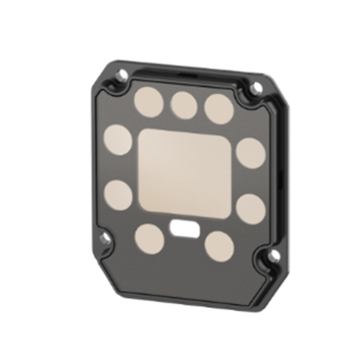
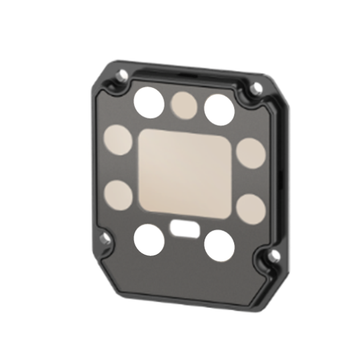
同步本地数据更新及C-Y-41H/T/P图片

diff --git a/Download/offline.html b/Download/offline.html
@@ -1343,20 +1343,20 @@
 {"Count":26,"value":["相机","ID5000M系列","ID5200PM系列V2.0","MV-ID5200PM-00C-NNN(国内中性)V2.0","313201056","20MP，全局快门，无镜头，无自带光源","","Power","0","Braket5M","0","","","M12A12","1","M12A8","1","","","","","KF","0","LB-270;BZ5N;EPE5C;M48","0;1;1;1","CAM/ID5000MC"]},
 {"Count":26,"value":["相机","ID5000M系列","ID5250PM系列V2.0","MV-ID5250PM-00C-NNN(国内标配)V2.0","313201792","25MP，全局快门，无镜头，无自带光源","","Power","0","Braket5M","0","","","M12A12","0","M12A8","0","","","","","KF","0","LB-270;BZ5H;EPE5C;M48","0;1;1;1","CAM/ID5000MC"]},
 {"Count":26,"value":["相机","ID5000M系列","ID5250PM系列V2.0","MV-ID5250PM-00C-NNN(国内中性)V2.0","313201793","25MP，全局快门，无镜头，无自带光源","","Power","0","Braket5M","0","","","M12A12","0","M12A8","0","","","","","KF","0","LB-270;BZ5N;EPE5C;M48","0;1;1;1","CAM/ID5000MC"]},
-{"Count":26,"value":["相机","ID5000XM系列","ID5050XM系列V2.0","MV-ID5050XM-08M-RBN(国内标配)V2.0","313202289","5MP，8mm镜头，8颗红色LED，半偏镜头罩，机械调焦，带OLED屏","","Power","0","Braket5X","1","","","M12A12","0","M12A8","0","L-8-32","1","C-Y-41H","1","","","C-Y-41H-E;SL-16-M;BZ5XH;EPE5XM;M48","0;0;1;1;1","CAM/ID5000XM"]},
-{"Count":26,"value":["相机","ID5000XM系列","ID5050XM系列V2.0","MV-ID5050XM-08M-RBN(国内中性)V2.0","313202545","5MP，8mm镜头，8颗红色LED，半偏镜头罩，机械调焦，带OLED屏","","Power","0","Braket5X","1","","","M12A12","0","M12A8","0","L-8-32","1","C-Y-41H","1","","","C-Y-41H-E;SL-16-M;BZ5XN;EPE5XM;M48","0;0;1;1;1","CAM/ID5000XM"]},
-{"Count":26,"value":["相机","ID5000XM系列","ID5050XM系列V2.0","MV-ID5050XM-12M-RBN(国内标配)V2.0","313202290","5MP，12mm镜头，8颗红色LED，半偏镜头罩，机械调焦，带OLED屏","","Power","0","Braket5X","1","","","M12A12","0","M12A8","0","L-8-32","1","C-Y-41H","1","","","C-Y-41H-E;SL-16-M;BZ5XH;EPE5XM;M48","0;0;1;1;1","CAM/ID5000XM"]},
-{"Count":26,"value":["相机","ID5000XM系列","ID5050XM系列V2.0","MV-ID5050XM-12M-RBN(国内中性)V2.0","313202547","5MP，12mm镜头，8颗红色LED，半偏镜头罩，机械调焦，带OLED屏","","Power","0","Braket5X","1","","","M12A12","0","M12A8","0","L-8-32","1","C-Y-41H","1","","","C-Y-41H-E;SL-16-M;BZ5XN;EPE5XM;M48","0;0;1;1;1","CAM/ID5000XM"]},
-{"Count":26,"value":["相机","ID5000XM系列","ID5050XM系列V2.0","MV-ID5050XM-16M-RBN(国内标配)V2.0","313202291","5MP，16mm镜头，8颗红色LED，半偏镜头罩，机械调焦，带OLED屏","","Power","0","Braket5X","1","","","M12A12","0","M12A8","0","L-8-32","1","C-Y-41H","1","","","C-Y-41H-E;SL-16-M;BZ5XH;EPE5XM;M48","0;0;1;1;1","CAM/ID5000XM"]},
-{"Count":26,"value":["相机","ID5000XM系列","ID5050XM系列V2.0","MV-ID5050XM-16M-RBN(国内中性)V2.0","313202549","5MP，16mm镜头，8颗红色LED，半偏镜头罩，机械调焦，带OLED屏","","Power","0","Braket5X","1","","","M12A12","0","M12A8","0","L-8-32","1","C-Y-41H","1","","","C-Y-41H-E;SL-16-M;BZ5XN;EPE5XM;M48","0;0;1;1;1","CAM/ID5000XM"]},
-{"Count":26,"value":["相机","ID5000XM系列","ID5050XM系列V2.0","MV-ID5050XM-25M-RBN(国内标配)V2.0","313202292","5MP，25mm镜头，8颗红色LED，半偏镜头罩，机械调焦，带OLED屏","","Power","0","Braket5X","1","","","M12A12","0","M12A8","0","L-8-32","1","C-Y-41H","1","","","C-Y-41H-E;SL-16-M;BZ5XH;EPE5XM;M48","0;0;1;1;1","CAM/ID5000XM"]},
-{"Count":26,"value":["相机","ID5000XM系列","ID5050XM系列V2.0","MV-ID5050XM-25M-RBN(国内中性)V2.0","313202551","5MP，25mm镜头，8颗红色LED，半偏镜头罩，机械调焦，带OLED屏","","Power","0","Braket5X","1","","","M12A12","0","M12A8","0","L-8-32","1","C-Y-41H","1","","","C-Y-41H-E;SL-16-M;BZ5XN;EPE5XM;M48","0;0;1;1;1","CAM/ID5000XM"]},
-{"Count":26,"value":["相机","ID5000XM系列","ID5050XM系列V2.0","MV-ID5050XM-08L-RBN(国内标配)V2.0","313202293","5MP，8mm镜头，8颗红色LED，半偏镜头罩，液态调焦，带OLED屏","","Power","0","Braket5X","1","","","M12A12","0","M12A8","0","L-8-32","1","C-Y-41H","1","","","C-Y-41H-E;SL-16-M;BZ5XH;EPE5XM;M48","0;0;1;1;1","CAM/ID5000XM"]},
-{"Count":26,"value":["相机","ID5000XM系列","ID5050XM系列V2.0","MV-ID5050XM-08L-RBN(国内中性)V2.0","313202553","5MP，8mm镜头，8颗红色LED，半偏镜头罩，液态调焦，带OLED屏","","Power","0","Braket5X","1","","","M12A12","0","M12A8","0","L-8-32","1","C-Y-41H","1","","","C-Y-41H-E;SL-16-M;BZ5XN;EPE5XM;M48","0;0;1;1;1","CAM/ID5000XM"]},
-{"Count":26,"value":["相机","ID5000XM系列","ID5050XM系列V2.0","MV-ID5050XM-12L-RBN(国内标配)V2.0","313202294","5MP，12mm镜头，8颗红色LED，半偏镜头罩，液态调焦，带OLED屏","","Power","0","Braket5X","1","","","M12A12","0","M12A8","0","L-8-32","1","C-Y-41H","1","","","C-Y-41H-E;SL-16-M;BZ5XH;EPE5XM;M48","0;0;1;1;1","CAM/ID5000XM"]},
-{"Count":26,"value":["相机","ID5000XM系列","ID5050XM系列V2.0","MV-ID5050XM-12L-RBN(国内中性)V2.0","313202557","5MP，12mm镜头，8颗红色LED，半偏镜头罩，液态调焦，带OLED屏","","Power","0","Braket5X","1","","","M12A12","0","M12A8","0","L-8-32","1","C-Y-41H","1","","","C-Y-41H-E;SL-16-M;BZ5XN;EPE5XM;M48","0;0;1;1;1","CAM/ID5000XM"]},
-{"Count":26,"value":["相机","ID5000XM系列","ID5050XM系列V2.0","MV-ID5050XM-16L-RBN(国内标配)V2.0","313202295","5MP，16mm镜头，8颗红色LED，半偏镜头罩，液态调焦，带OLED屏","","Power","0","Braket5X","1","","","M12A12","0","M12A8","0","L-8-32","1","C-Y-41H","1","","","C-Y-41H-E;SL-16-M;BZ5XH;EPE5XM;M48","0;0;1;1;1","CAM/ID5000XM"]},
-{"Count":26,"value":["相机","ID5000XM系列","ID5050XM系列V2.0","MV-ID5050XM-16L-RBN(国内中性)V2.0","313202555","5MP，16mm镜头，8颗红色LED，半偏镜头罩，液态调焦，带OLED屏","","Power","0","Braket5X","1","","","M12A12","0","M12A8","0","L-8-32","1","C-Y-41H","1","","","C-Y-41H-E;SL-16-M;BZ5XN;EPE5XM;M48","0;0;1;1;1","CAM/ID5000XM"]},
+{"Count":26,"value":["相机","ID5000XM系列","ID5050XM系列V2.0","MV-ID5050XM-08M-RBN(国内标配)V2.0","313202289","5MP，8mm镜头，8颗红色LED，半偏镜头罩，机械调焦，带OLED屏","","Power","0","Braket5X","1","","","M12A12","0","M12A8","0","L-8-32","1","C-Y-41","1","","","C-Y-41-E;SL-16-M;BZ5XH;EPE5XM;M48","0;0;1;1;1","CAM/ID5000XM"]},
+{"Count":26,"value":["相机","ID5000XM系列","ID5050XM系列V2.0","MV-ID5050XM-08M-RBN(国内中性)V2.0","313202545","5MP，8mm镜头，8颗红色LED，半偏镜头罩，机械调焦，带OLED屏","","Power","0","Braket5X","1","","","M12A12","0","M12A8","0","L-8-32","1","C-Y-41","1","","","C-Y-41-E;SL-16-M;BZ5XN;EPE5XM;M48","0;0;1;1;1","CAM/ID5000XM"]},
+{"Count":26,"value":["相机","ID5000XM系列","ID5050XM系列V2.0","MV-ID5050XM-12M-RBN(国内标配)V2.0","313202290","5MP，12mm镜头，8颗红色LED，半偏镜头罩，机械调焦，带OLED屏","","Power","0","Braket5X","1","","","M12A12","0","M12A8","0","L-8-32","1","C-Y-41","1","","","C-Y-41-E;SL-16-M;BZ5XH;EPE5XM;M48","0;0;1;1;1","CAM/ID5000XM"]},
+{"Count":26,"value":["相机","ID5000XM系列","ID5050XM系列V2.0","MV-ID5050XM-12M-RBN(国内中性)V2.0","313202547","5MP，12mm镜头，8颗红色LED，半偏镜头罩，机械调焦，带OLED屏","","Power","0","Braket5X","1","","","M12A12","0","M12A8","0","L-8-32","1","C-Y-41","1","","","C-Y-41-E;SL-16-M;BZ5XN;EPE5XM;M48","0;0;1;1;1","CAM/ID5000XM"]},
+{"Count":26,"value":["相机","ID5000XM系列","ID5050XM系列V2.0","MV-ID5050XM-16M-RBN(国内标配)V2.0","313202291","5MP，16mm镜头，8颗红色LED，半偏镜头罩，机械调焦，带OLED屏","","Power","0","Braket5X","1","","","M12A12","0","M12A8","0","L-8-32","1","C-Y-41","1","","","C-Y-41-E;SL-16-M;BZ5XH;EPE5XM;M48","0;0;1;1;1","CAM/ID5000XM"]},
+{"Count":26,"value":["相机","ID5000XM系列","ID5050XM系列V2.0","MV-ID5050XM-16M-RBN(国内中性)V2.0","313202549","5MP，16mm镜头，8颗红色LED，半偏镜头罩，机械调焦，带OLED屏","","Power","0","Braket5X","1","","","M12A12","0","M12A8","0","L-8-32","1","C-Y-41","1","","","C-Y-41-E;SL-16-M;BZ5XN;EPE5XM;M48","0;0;1;1;1","CAM/ID5000XM"]},
+{"Count":26,"value":["相机","ID5000XM系列","ID5050XM系列V2.0","MV-ID5050XM-25M-RBN(国内标配)V2.0","313202292","5MP，25mm镜头，8颗红色LED，半偏镜头罩，机械调焦，带OLED屏","","Power","0","Braket5X","1","","","M12A12","0","M12A8","0","L-8-32","1","C-Y-41","1","","","C-Y-41-E;SL-16-M;BZ5XH;EPE5XM;M48","0;0;1;1;1","CAM/ID5000XM"]},
+{"Count":26,"value":["相机","ID5000XM系列","ID5050XM系列V2.0","MV-ID5050XM-25M-RBN(国内中性)V2.0","313202551","5MP，25mm镜头，8颗红色LED，半偏镜头罩，机械调焦，带OLED屏","","Power","0","Braket5X","1","","","M12A12","0","M12A8","0","L-8-32","1","C-Y-41","1","","","C-Y-41-E;SL-16-M;BZ5XN;EPE5XM;M48","0;0;1;1;1","CAM/ID5000XM"]},
+{"Count":26,"value":["相机","ID5000XM系列","ID5050XM系列V2.0","MV-ID5050XM-08L-RBN(国内标配)V2.0","313202293","5MP，8mm镜头，8颗红色LED，半偏镜头罩，液态调焦，带OLED屏","","Power","0","Braket5X","1","","","M12A12","0","M12A8","0","L-8-32","1","C-Y-41","1","","","C-Y-41-E;SL-16-M;BZ5XH;EPE5XM;M48","0;0;1;1;1","CAM/ID5000XM"]},
+{"Count":26,"value":["相机","ID5000XM系列","ID5050XM系列V2.0","MV-ID5050XM-08L-RBN(国内中性)V2.0","313202553","5MP，8mm镜头，8颗红色LED，半偏镜头罩，液态调焦，带OLED屏","","Power","0","Braket5X","1","","","M12A12","0","M12A8","0","L-8-32","1","C-Y-41","1","","","C-Y-41-E;SL-16-M;BZ5XN;EPE5XM;M48","0;0;1;1;1","CAM/ID5000XM"]},
+{"Count":26,"value":["相机","ID5000XM系列","ID5050XM系列V2.0","MV-ID5050XM-12L-RBN(国内标配)V2.0","313202294","5MP，12mm镜头，8颗红色LED，半偏镜头罩，液态调焦，带OLED屏","","Power","0","Braket5X","1","","","M12A12","0","M12A8","0","L-8-32","1","C-Y-41","1","","","C-Y-41-E;SL-16-M;BZ5XH;EPE5XM;M48","0;0;1;1;1","CAM/ID5000XM"]},
+{"Count":26,"value":["相机","ID5000XM系列","ID5050XM系列V2.0","MV-ID5050XM-12L-RBN(国内中性)V2.0","313202557","5MP，12mm镜头，8颗红色LED，半偏镜头罩，液态调焦，带OLED屏","","Power","0","Braket5X","1","","","M12A12","0","M12A8","0","L-8-32","1","C-Y-41","1","","","C-Y-41-E;SL-16-M;BZ5XN;EPE5XM;M48","0;0;1;1;1","CAM/ID5000XM"]},
+{"Count":26,"value":["相机","ID5000XM系列","ID5050XM系列V2.0","MV-ID5050XM-16L-RBN(国内标配)V2.0","313202295","5MP，16mm镜头，8颗红色LED，半偏镜头罩，液态调焦，带OLED屏","","Power","0","Braket5X","1","","","M12A12","0","M12A8","0","L-8-32","1","C-Y-41","1","","","C-Y-41-E;SL-16-M;BZ5XH;EPE5XM;M48","0;0;1;1;1","CAM/ID5000XM"]},
+{"Count":26,"value":["相机","ID5000XM系列","ID5050XM系列V2.0","MV-ID5050XM-16L-RBN(国内中性)V2.0","313202555","5MP，16mm镜头，8颗红色LED，半偏镜头罩，液态调焦，带OLED屏","","Power","0","Braket5X","1","","","M12A12","0","M12A8","0","L-8-32","1","C-Y-41","1","","","C-Y-41-E;SL-16-M;BZ5XN;EPE5XM;M48","0;0;1;1;1","CAM/ID5000XM"]},
 {"Count":26,"value":["相机","ID5000XM系列","ID5050XM系列V2.0","MV-ID5050XM-00C-NNN(国内标配)","313202673","5MP，全局快门，无镜头，无自带光源","","Power","0","Braket5X","1","","","M12A12","0","M12A8","0","","","","","MF","0","SL-16-C;LY-02;BZ5XH;EPE5XC;M48","0;0;1;1;1","CAM/ID5000XC"]},
 {"Count":26,"value":["相机","ID5000XM系列","ID5050XM系列V2.0","MV-ID5050XM-00C-NNN(国内中性)","313202674","5MP，全局快门，无镜头，无自带光源","","Power","0","Braket5X","1","","","M12A12","0","M12A8","0","","","","","MF","0","SL-16-C;LY-02;BZ5XN;EPE5XC;M48","0;0;1;1;1","CAM/ID5000XC"]},
 {"Count":26,"value":["相机","ID5000XM系列","ID5050XM系列V2.0","MV-ID5050XM-08M-XBN(国内标配)","313202951","多色型号，5MP，8mm镜头，8颗四色光源(红/绿/蓝/白)，全透镜头罩，机械调焦，带OLED屏","","Power","0","Braket5X","1","","","M12A12","0","M12A8","0","","","","","","","BZ5XH;EPE5XD;M48","1;1;1","CAM/ID5050XM-XBN"]},
@@ -1367,20 +1367,20 @@
 {"Count":26,"value":["相机","ID5000XM系列","ID5050XM系列V2.0","MV-ID5050XM-25M-BVS(国内中性)","313203304","条码验证器，5MP，25mm镜头，搭配专用光源(红色)，四象限分控照明，照明区分为30°、45°、同轴光","","Power","0","Braket5X","1","","","M12A12","0","M12A8","0","","","","","","","BZ5XT;EPE5XT;M48","1;1;1","CAM/ID5050XM-BVS"]},
 {"Count":26,"value":["相机","ID5000XM系列","ID5120XM系列","MV-ID5120XM-00C-NNN(国内标配)","313202675","12MP，全局快门，无镜头，无自带光源","","Power","0","Braket5X","1","","","M12A12","0","M12A8","0","","","","","KF","0","SL-16-C;LY-02;BZ5XH;EPE5XC;M48","0;0;1;1;1","CAM/ID5000XC"]},
 {"Count":26,"value":["相机","ID5000XM系列","ID5120XM系列","MV-ID5120XM-00C-NNN(国内中性)","313202676","12MP，全局快门，无镜头，无自带光源","","Power","0","Braket5X","1","","","M12A12","0","M12A8","0","","","","","KF","0","SL-16-C;LY-02;BZ5XN;EPE5XC;M48","0;0;1;1;1","CAM/ID5000XC"]},
-{"Count":26,"value":["相机","ID5000XM系列","ID5120RM系列","MV-ID5120RM-08M-RBN(国内标配)","313202900","12MP，8mm镜头，8颗红色LED，半偏镜头罩，机械调焦，带OLED屏","","Power","0","Braket5X","1","","","M12A12","0","M12A8","0","L-8-32","1","C-Y-41H","1","","","C-Y-41H-E;SL-16-M;BZ5XH;EPE5XM;M48","0;0;1;1;1","CAM/ID5000XM"]},
-{"Count":26,"value":["相机","ID5000XM系列","ID5120RM系列","MV-ID5120RM-08M-RBN(国内中性)","313202990","12MP，8mm镜头，8颗红色LED，半偏镜头罩，机械调焦，带OLED屏","","Power","0","Braket5X","1","","","M12A12","0","M12A8","0","L-8-32","1","C-Y-41H","1","","","C-Y-41H-E;SL-16-M;BZ5XN;EPE5XM;M48","0;0;1;1;1","CAM/ID5000XM"]},
-{"Count":26,"value":["相机","ID5000XM系列","ID5120RM系列","MV-ID5120RM-12M-RBN(国内标配)","313202901","12MP，12mm镜头，8颗红色LED，半偏镜头罩，机械调焦，带OLED屏","","Power","0","Braket5X","1","","","M12A12","0","M12A8","0","L-8-32","1","C-Y-41H","1","","","C-Y-41H-E;SL-16-M;BZ5XH;EPE5XM;M48","0;0;1;1;1","CAM/ID5000XM"]},
-{"Count":26,"value":["相机","ID5000XM系列","ID5120RM系列","MV-ID5120RM-12M-RBN(国内中性)","313202996","12MP，12mm镜头，8颗红色LED，半偏镜头罩，机械调焦，带OLED屏","","Power","0","Braket5X","1","","","M12A12","0","M12A8","0","L-8-32","1","C-Y-41H","1","","","C-Y-41H-E;SL-16-M;BZ5XN;EPE5XM;M48","0;0;1;1;1","CAM/ID5000XM"]},
-{"Count":26,"value":["相机","ID5000XM系列","ID5120RM系列","MV-ID5120RM-16M-RBN(国内标配)","313202902","12MP，16mm镜头，8颗红色LED，半偏镜头罩，机械调焦，带OLED屏","","Power","0","Braket5X","1","","","M12A12","0","M12A8","0","L-8-32","1","C-Y-41H","1","","","C-Y-41H-E;SL-16-M;BZ5XH;EPE5XM;M48","0;0;1;1;1","CAM/ID5000XM"]},
-{"Count":26,"value":["相机","ID5000XM系列","ID5120RM系列","MV-ID5120RM-16M-RBN(国内中性)","313203002","12MP，16mm镜头，8颗红色LED，半偏镜头罩，机械调焦，带OLED屏","","Power","0","Braket5X","1","","","M12A12","0","M12A8","0","L-8-32","1","C-Y-41H","1","","","C-Y-41H-E;SL-16-M;BZ5XN;EPE5XM;M48","0;0;1;1;1","CAM/ID5000XM"]},
-{"Count":26,"value":["相机","ID5000XM系列","ID5120RM系列","MV-ID5120RM-25M-RBN(国内标配)","313202903","12MP，25mm镜头，8颗红色LED，半偏镜头罩，机械调焦，带OLED屏","","Power","0","Braket5X","1","","","M12A12","0","M12A8","0","L-8-32","1","C-Y-41H","1","","","C-Y-41H-E;SL-16-M;BZ5XH;EPE5XM;M48","0;0;1;1;1","CAM/ID5000XM"]},
-{"Count":26,"value":["相机","ID5000XM系列","ID5120RM系列","MV-ID5120RM-25M-RBN(国内中性)","313203005","12MP，25mm镜头，8颗红色LED，半偏镜头罩，机械调焦，带OLED屏","","Power","0","Braket5X","1","","","M12A12","0","M12A8","0","L-8-32","1","C-Y-41H","1","","","C-Y-41H-E;SL-16-M;BZ5XN;EPE5XM;M48","0;0;1;1;1","CAM/ID5000XM"]},
-{"Count":26,"value":["相机","ID5000XM系列","ID5120RM系列","MV-ID5120RM-08L-RBN(国内标配)","313202904","12MP，8mm镜头，8颗红色LED，半偏镜头罩，液态调焦，带OLED屏","","Power","0","Braket5X","1","","","M12A12","0","M12A8","0","L-8-32","1","C-Y-41H","1","","","C-Y-41H-E;SL-16-M;BZ5XH;EPE5XM;M48","0;0;1;1;1","CAM/ID5000XM"]},
-{"Count":26,"value":["相机","ID5000XM系列","ID5120RM系列","MV-ID5120RM-08L-RBN(国内中性)","313202954","12MP，8mm镜头，8颗红色LED，半偏镜头罩，液态调焦，带OLED屏","","Power","0","Braket5X","1","","","M12A12","0","M12A8","0","L-8-32","1","C-Y-41H","1","","","C-Y-41H-E;SL-16-M;BZ5XN;EPE5XM;M48","0;0;1;1;1","CAM/ID5000XM"]},
-{"Count":26,"value":["相机","ID5000XM系列","ID5120RM系列","MV-ID5120RM-12L-RBN(国内标配)","313202905","12MP，12mm镜头，8颗红色LED，半偏镜头罩，液态调焦，带OLED屏","","Power","0","Braket5X","1","","","M12A12","0","M12A8","0","L-8-32","1","C-Y-41H","1","","","C-Y-41H-E;SL-16-M;BZ5XH;EPE5XM;M48","0;0;1;1;1","CAM/ID5000XM"]},
-{"Count":26,"value":["相机","ID5000XM系列","ID5120RM系列","MV-ID5120RM-12L-RBN(国内中性)","313202993","12MP，12mm镜头，8颗红色LED，半偏镜头罩，液态调焦，带OLED屏","","Power","0","Braket5X","1","","","M12A12","0","M12A8","0","L-8-32","1","C-Y-41H","1","","","C-Y-41H-E;SL-16-M;BZ5XN;EPE5XM;M48","0;0;1;1;1","CAM/ID5000XM"]},
-{"Count":26,"value":["相机","ID5000XM系列","ID5120RM系列","MV-ID5120RM-16L-RBN(国内标配)","313202906","12MP，16mm镜头，8颗红色LED，半偏镜头罩，液态调焦，带OLED屏","","Power","0","Braket5X","1","","","M12A12","0","M12A8","0","L-8-32","1","C-Y-41H","1","","","C-Y-41H-E;SL-16-M;BZ5XH;EPE5XM;M48","0;0;1;1;1","CAM/ID5000XM"]},
-{"Count":26,"value":["相机","ID5000XM系列","ID5120RM系列","MV-ID5120RM-16L-RBN(国内中性)","313202999","12MP，16mm镜头，8颗红色LED，半偏镜头罩，液态调焦，带OLED屏","","Power","0","Braket5X","1","","","M12A12","0","M12A8","0","L-8-32","1","C-Y-41H","1","","","C-Y-41H-E;SL-16-M;BZ5XN;EPE5XM;M48","0;0;1;1;1","CAM/ID5000XM"]},
+{"Count":26,"value":["相机","ID5000XM系列","ID5120RM系列","MV-ID5120RM-08M-RBN(国内标配)","313202900","12MP，8mm镜头，8颗红色LED，半偏镜头罩，机械调焦，带OLED屏","","Power","0","Braket5X","1","","","M12A12","0","M12A8","0","L-8-32","1","C-Y-41","1","","","C-Y-41-E;SL-16-M;BZ5XH;EPE5XM;M48","0;0;1;1;1","CAM/ID5000XM"]},
+{"Count":26,"value":["相机","ID5000XM系列","ID5120RM系列","MV-ID5120RM-08M-RBN(国内中性)","313202990","12MP，8mm镜头，8颗红色LED，半偏镜头罩，机械调焦，带OLED屏","","Power","0","Braket5X","1","","","M12A12","0","M12A8","0","L-8-32","1","C-Y-41","1","","","C-Y-41-E;SL-16-M;BZ5XN;EPE5XM;M48","0;0;1;1;1","CAM/ID5000XM"]},
+{"Count":26,"value":["相机","ID5000XM系列","ID5120RM系列","MV-ID5120RM-12M-RBN(国内标配)","313202901","12MP，12mm镜头，8颗红色LED，半偏镜头罩，机械调焦，带OLED屏","","Power","0","Braket5X","1","","","M12A12","0","M12A8","0","L-8-32","1","C-Y-41","1","","","C-Y-41-E;SL-16-M;BZ5XH;EPE5XM;M48","0;0;1;1;1","CAM/ID5000XM"]},
+{"Count":26,"value":["相机","ID5000XM系列","ID5120RM系列","MV-ID5120RM-12M-RBN(国内中性)","313202996","12MP，12mm镜头，8颗红色LED，半偏镜头罩，机械调焦，带OLED屏","","Power","0","Braket5X","1","","","M12A12","0","M12A8","0","L-8-32","1","C-Y-41","1","","","C-Y-41-E;SL-16-M;BZ5XN;EPE5XM;M48","0;0;1;1;1","CAM/ID5000XM"]},
+{"Count":26,"value":["相机","ID5000XM系列","ID5120RM系列","MV-ID5120RM-16M-RBN(国内标配)","313202902","12MP，16mm镜头，8颗红色LED，半偏镜头罩，机械调焦，带OLED屏","","Power","0","Braket5X","1","","","M12A12","0","M12A8","0","L-8-32","1","C-Y-41","1","","","C-Y-41-E;SL-16-M;BZ5XH;EPE5XM;M48","0;0;1;1;1","CAM/ID5000XM"]},
+{"Count":26,"value":["相机","ID5000XM系列","ID5120RM系列","MV-ID5120RM-16M-RBN(国内中性)","313203002","12MP，16mm镜头，8颗红色LED，半偏镜头罩，机械调焦，带OLED屏","","Power","0","Braket5X","1","","","M12A12","0","M12A8","0","L-8-32","1","C-Y-41","1","","","C-Y-41-E;SL-16-M;BZ5XN;EPE5XM;M48","0;0;1;1;1","CAM/ID5000XM"]},
+{"Count":26,"value":["相机","ID5000XM系列","ID5120RM系列","MV-ID5120RM-25M-RBN(国内标配)","313202903","12MP，25mm镜头，8颗红色LED，半偏镜头罩，机械调焦，带OLED屏","","Power","0","Braket5X","1","","","M12A12","0","M12A8","0","L-8-32","1","C-Y-41","1","","","C-Y-41-E;SL-16-M;BZ5XH;EPE5XM;M48","0;0;1;1;1","CAM/ID5000XM"]},
+{"Count":26,"value":["相机","ID5000XM系列","ID5120RM系列","MV-ID5120RM-25M-RBN(国内中性)","313203005","12MP，25mm镜头，8颗红色LED，半偏镜头罩，机械调焦，带OLED屏","","Power","0","Braket5X","1","","","M12A12","0","M12A8","0","L-8-32","1","C-Y-41","1","","","C-Y-41-E;SL-16-M;BZ5XN;EPE5XM;M48","0;0;1;1;1","CAM/ID5000XM"]},
+{"Count":26,"value":["相机","ID5000XM系列","ID5120RM系列","MV-ID5120RM-08L-RBN(国内标配)","313202904","12MP，8mm镜头，8颗红色LED，半偏镜头罩，液态调焦，带OLED屏","","Power","0","Braket5X","1","","","M12A12","0","M12A8","0","L-8-32","1","C-Y-41","1","","","C-Y-41-E;SL-16-M;BZ5XH;EPE5XM;M48","0;0;1;1;1","CAM/ID5000XM"]},
+{"Count":26,"value":["相机","ID5000XM系列","ID5120RM系列","MV-ID5120RM-08L-RBN(国内中性)","313202954","12MP，8mm镜头，8颗红色LED，半偏镜头罩，液态调焦，带OLED屏","","Power","0","Braket5X","1","","","M12A12","0","M12A8","0","L-8-32","1","C-Y-41","1","","","C-Y-41-E;SL-16-M;BZ5XN;EPE5XM;M48","0;0;1;1;1","CAM/ID5000XM"]},
+{"Count":26,"value":["相机","ID5000XM系列","ID5120RM系列","MV-ID5120RM-12L-RBN(国内标配)","313202905","12MP，12mm镜头，8颗红色LED，半偏镜头罩，液态调焦，带OLED屏","","Power","0","Braket5X","1","","","M12A12","0","M12A8","0","L-8-32","1","C-Y-41","1","","","C-Y-41-E;SL-16-M;BZ5XH;EPE5XM;M48","0;0;1;1;1","CAM/ID5000XM"]},
+{"Count":26,"value":["相机","ID5000XM系列","ID5120RM系列","MV-ID5120RM-12L-RBN(国内中性)","313202993","12MP，12mm镜头，8颗红色LED，半偏镜头罩，液态调焦，带OLED屏","","Power","0","Braket5X","1","","","M12A12","0","M12A8","0","L-8-32","1","C-Y-41","1","","","C-Y-41-E;SL-16-M;BZ5XN;EPE5XM;M48","0;0;1;1;1","CAM/ID5000XM"]},
+{"Count":26,"value":["相机","ID5000XM系列","ID5120RM系列","MV-ID5120RM-16L-RBN(国内标配)","313202906","12MP，16mm镜头，8颗红色LED，半偏镜头罩，液态调焦，带OLED屏","","Power","0","Braket5X","1","","","M12A12","0","M12A8","0","L-8-32","1","C-Y-41","1","","","C-Y-41-E;SL-16-M;BZ5XH;EPE5XM;M48","0;0;1;1;1","CAM/ID5000XM"]},
+{"Count":26,"value":["相机","ID5000XM系列","ID5120RM系列","MV-ID5120RM-16L-RBN(国内中性)","313202999","12MP，16mm镜头，8颗红色LED，半偏镜头罩，液态调焦，带OLED屏","","Power","0","Braket5X","1","","","M12A12","0","M12A8","0","L-8-32","1","C-Y-41","1","","","C-Y-41-E;SL-16-M;BZ5XN;EPE5XM;M48","0;0;1;1;1","CAM/ID5000XM"]},
 {"Count":26,"value":["相机","ID5000XM系列","ID5120RM系列","MV-ID5120RM-00C-NNN(国内标配)","313202899","12MP，卷帘快门，无镜头，无自带光源","","Power","0","Braket5X","1","","","M12A12","0","M12A8","0","","","","","KF","0","SL-16-C;LY-02;BZ5XH;EPE5XC;M48","0;0;1;1;1","CAM/ID5000XC"]},
 {"Count":26,"value":["相机","ID5000XM系列","ID5120RM系列","MV-ID5120RM-00C-NNN(国内中性)","313203343","12MP，卷帘快门，无镜头，无自带光源","","Power","0","Braket5X","1","","","M12A12","0","M12A8","0","","","","","KF","0","SL-16-C;LY-02;BZ5XN;EPE5XC;M48","0;0;1;1;1","CAM/ID5000XC"]},
 {"Count":26,"value":["相机","行业型号","IVD行业","MV-HY-MED-A13-03N-WBP-S(国内标配)","313203076","1.3MP，2.48mm镜头，视场角69°*58°，4颗白光(偏振)，网口型号","标配1.2m高柔线缆：医疗专用型号供电通讯一体线，DB15转RJ45、DB9，散线（2入2出）","","","","","","","","","","","","","","","","","","","CAM/ID2013ES"]},
@@ -1820,9 +1820,9 @@
 {"Count":10,"value":["配件","镜头罩","ID5060M全偏镜头罩","MV-IDA-C-N-78-78-P","310100454","ID5060M全偏镜头罩","若ID5060出货配置为全偏镜头罩，订单中备注：删除：190240954，添加：190219579","C-N-78","0","ACC/C-N-78P"]},
 {"Count":10,"value":["配件","镜头罩","ID5060M扩散镜头罩","MV-IDA-C-N-78-78-K","310102438","ID5060M扩散镜头罩","若ID5060出货配置为扩散镜头罩，订单中备注：删除：190240954，添加：102203992","C-N-78","0","ACC/C-N-78K"]},
 {"Count":10,"value":["配件","镜头罩","ID5060M偏振扩散镜头罩","MV-IDA-C-N-78-78-PK","102205250","ID5060M偏振扩散镜头罩","若ID5060出货配置为偏振扩散镜头罩，订单中备注：删除：190240954，添加：102205250","C-N-78","0","ACC/C-N-78K"]},
-{"Count":10,"value":["配件","镜头罩","ID5000XM半偏镜头罩","MV-IDA-C-Y-41H-56-H","202406694","ID5000XM标配半偏镜头罩","","C-Y-41H","1","ACC/C-Y-41H"]},
-{"Count":10,"value":["配件","镜头罩","ID5000XM全偏镜头罩","MV-IDA-C-Y-41H-56-P(国内中性)","310102293","ID5000XR全偏镜头罩","若ID5000X/R出货配置为全偏，订单中备注：删除：202406694，添加：202406695","C-Y-41H","0","ACC/C-Y-41H"]},
-{"Count":10,"value":["配件","镜头罩","ID5000XM全透镜头罩","MV-IDA-C-Y-41H-56-T(国内中性)","310102294","ID5000XR透明镜头罩","若ID5000X/R出货配置为全透，订单中备注：删除：202406694，添加：202406696","C-Y-41H","0","ACC/C-Y-41H"]},
+{"Count":10,"value":["配件","镜头罩","ID5000XM半偏镜头罩","MV-IDA-C-Y-41-56-H","202406694","ID5000XM标配半偏镜头罩","","C-Y-41","1","ACC/C-Y-41H"]},
+{"Count":10,"value":["配件","镜头罩","ID5000XM全偏镜头罩","MV-IDA-C-Y-41-56-P(国内中性)","310102293","ID5000XR全偏镜头罩","若ID5000X/R出货配置为全偏，订单中备注：删除：202406694，添加：202406695","C-Y-41","0","ACC/C-Y-41P"]},
+{"Count":10,"value":["配件","镜头罩","ID5000XM全透镜头罩","MV-IDA-C-Y-41-56-T(国内中性)","310102294","ID5000XR透明镜头罩","若ID5000X/R出货配置为全透，订单中备注：删除：202406694，添加：202406696","C-Y-41","0","ACC/C-Y-41T"]},
 {"Count":10,"value":["配件","FA镜头","HF系列","MVL-HF0624M-10MP(全球通标配)","310100679","FA镜头，6mm，F2.4，1/1.8英寸，10MP，C接口","","HF06","1","ACC/L-HF"]},
 {"Count":10,"value":["配件","FA镜头","HF系列","MVL-HF0824M-10MP(全球通标配)","310100680","FA镜头，8mm，F2.4，1/1.8英寸，10MP，C接口","","HF08","1","ACC/L-HF"]},
 {"Count":10,"value":["配件","FA镜头","HF系列","MVL-HF1228M-8MP (标配)","102204617","FA玻塑镜头，12mm，F2.8，1/1.8英寸，8MP，C接口","","HF121","1","ACC/L-HF"]},
@@ -1865,7 +1865,7 @@
 {"Count":10,"value":["配件","扩展配件","YAG防护罩","MV-IDA-C-Y-61-45-YAG(国内中性)V2.0","310103253","激光防护罩，防护1064nm激光漫射","","C-Y-61-Y","0","ACC/C-Y-61-Y"]},
 {"Count":10,"value":["配件","扩展配件","ESD防护罩","MV-IDA-C-Y-61-45-ESD(国内中性)V2.0","310103254","静电防护罩，复合IEC61340-5-1：2016防静电要求","","C-Y-61-E","0","ACC/C-Y-61-E"]},
 {"Count":10,"value":["配件","扩展配件","匀光罩","MV-IDA-C-Y-61-45-DOME(国内中性)V2.0","310103255","匀光罩，适合金属拉丝反光场景","","C-Y-61-D","0","ACC/C-Y-61-D"]},
-{"Count":10,"value":["配件","扩展配件","ESD防护罩","MV-IDA-C-Y-41H-56-ESD(国内中性)","310102292","静电防护罩，复合IEC61340-5-1：2016防静电要求","","C-Y-41H-E","0","ACC/C-Y-41H-E"]},
+{"Count":10,"value":["配件","扩展配件","ESD防护罩","MV-IDA-C-Y-41-56-ESD(国内中性)","310102292","静电防护罩，复合IEC61340-5-1：2016防静电要求","","C-Y-41-E","0","ACC/C-Y-41-E"]},
 {"Count":10,"value":["配件","扩展配件","红色全透爆闪光源","MV-IDA-SL-16-M-RBN(全球通中性)","310103191","适配M口型号，红色16颗补光灯，全透镜头罩，亮度最大可达自带光源的3倍以上","","SL-16-M","0","ACC/SL-16-M"]},
 {"Count":10,"value":["配件","扩展配件","红色全偏爆闪光源","MV-IDA-SL-16-M-RBP(全球通中性)","310102928","适配M口型号，红色16颗补光灯，全偏镜头罩，亮度最大可达自带光源的3倍以上","","SL-16-M","0","ACC/SL-16-M"]},
 {"Count":10,"value":["配件","扩展配件","白色全透爆闪光源","MV-IDA-SL-16-M-WBN(全球通中性)","310103032","适配M口型号，白色16颗补光灯，全透镜头罩，亮度最大可达自带光源的3倍以上","","SL-16-M","0","ACC/SL-16-M"]},

diff --git a/scripts/camera_data.js b/scripts/camera_data.js
@@ -470,20 +470,20 @@ var IDBOM_CAMERA_DATA = [
 {"Count":26,"value":["相机","ID5000M系列","ID5200PM系列V2.0","MV-ID5200PM-00C-NNN(国内中性)V2.0","313201056","20MP，全局快门，无镜头，无自带光源","","Power","0","Braket5M","0","","","M12A12","1","M12A8","1","","","","","KF","0","LB-270;BZ5N;EPE5C;M48","0;1;1;1","CAM/ID5000MC"]},
 {"Count":26,"value":["相机","ID5000M系列","ID5250PM系列V2.0","MV-ID5250PM-00C-NNN(国内标配)V2.0","313201792","25MP，全局快门，无镜头，无自带光源","","Power","0","Braket5M","0","","","M12A12","0","M12A8","0","","","","","KF","0","LB-270;BZ5H;EPE5C;M48","0;1;1;1","CAM/ID5000MC"]},
 {"Count":26,"value":["相机","ID5000M系列","ID5250PM系列V2.0","MV-ID5250PM-00C-NNN(国内中性)V2.0","313201793","25MP，全局快门，无镜头，无自带光源","","Power","0","Braket5M","0","","","M12A12","0","M12A8","0","","","","","KF","0","LB-270;BZ5N;EPE5C;M48","0;1;1;1","CAM/ID5000MC"]},
-{"Count":26,"value":["相机","ID5000XM系列","ID5050XM系列V2.0","MV-ID5050XM-08M-RBN(国内标配)V2.0","313202289","5MP，8mm镜头，8颗红色LED，半偏镜头罩，机械调焦，带OLED屏","","Power","0","Braket5X","1","","","M12A12","0","M12A8","0","L-8-32","1","C-Y-41H","1","","","C-Y-41H-E;SL-16-M;BZ5XH;EPE5XM;M48","0;0;1;1;1","CAM/ID5000XM"]},
-{"Count":26,"value":["相机","ID5000XM系列","ID5050XM系列V2.0","MV-ID5050XM-08M-RBN(国内中性)V2.0","313202545","5MP，8mm镜头，8颗红色LED，半偏镜头罩，机械调焦，带OLED屏","","Power","0","Braket5X","1","","","M12A12","0","M12A8","0","L-8-32","1","C-Y-41H","1","","","C-Y-41H-E;SL-16-M;BZ5XN;EPE5XM;M48","0;0;1;1;1","CAM/ID5000XM"]},
-{"Count":26,"value":["相机","ID5000XM系列","ID5050XM系列V2.0","MV-ID5050XM-12M-RBN(国内标配)V2.0","313202290","5MP，12mm镜头，8颗红色LED，半偏镜头罩，机械调焦，带OLED屏","","Power","0","Braket5X","1","","","M12A12","0","M12A8","0","L-8-32","1","C-Y-41H","1","","","C-Y-41H-E;SL-16-M;BZ5XH;EPE5XM;M48","0;0;1;1;1","CAM/ID5000XM"]},
-{"Count":26,"value":["相机","ID5000XM系列","ID5050XM系列V2.0","MV-ID5050XM-12M-RBN(国内中性)V2.0","313202547","5MP，12mm镜头，8颗红色LED，半偏镜头罩，机械调焦，带OLED屏","","Power","0","Braket5X","1","","","M12A12","0","M12A8","0","L-8-32","1","C-Y-41H","1","","","C-Y-41H-E;SL-16-M;BZ5XN;EPE5XM;M48","0;0;1;1;1","CAM/ID5000XM"]},
-{"Count":26,"value":["相机","ID5000XM系列","ID5050XM系列V2.0","MV-ID5050XM-16M-RBN(国内标配)V2.0","313202291","5MP，16mm镜头，8颗红色LED，半偏镜头罩，机械调焦，带OLED屏","","Power","0","Braket5X","1","","","M12A12","0","M12A8","0","L-8-32","1","C-Y-41H","1","","","C-Y-41H-E;SL-16-M;BZ5XH;EPE5XM;M48","0;0;1;1;1","CAM/ID5000XM"]},
-{"Count":26,"value":["相机","ID5000XM系列","ID5050XM系列V2.0","MV-ID5050XM-16M-RBN(国内中性)V2.0","313202549","5MP，16mm镜头，8颗红色LED，半偏镜头罩，机械调焦，带OLED屏","","Power","0","Braket5X","1","","","M12A12","0","M12A8","0","L-8-32","1","C-Y-41H","1","","","C-Y-41H-E;SL-16-M;BZ5XN;EPE5XM;M48","0;0;1;1;1","CAM/ID5000XM"]},
-{"Count":26,"value":["相机","ID5000XM系列","ID5050XM系列V2.0","MV-ID5050XM-25M-RBN(国内标配)V2.0","313202292","5MP，25mm镜头，8颗红色LED，半偏镜头罩，机械调焦，带OLED屏","","Power","0","Braket5X","1","","","M12A12","0","M12A8","0","L-8-32","1","C-Y-41H","1","","","C-Y-41H-E;SL-16-M;BZ5XH;EPE5XM;M48","0;0;1;1;1","CAM/ID5000XM"]},
-{"Count":26,"value":["相机","ID5000XM系列","ID5050XM系列V2.0","MV-ID5050XM-25M-RBN(国内中性)V2.0","313202551","5MP，25mm镜头，8颗红色LED，半偏镜头罩，机械调焦，带OLED屏","","Power","0","Braket5X","1","","","M12A12","0","M12A8","0","L-8-32","1","C-Y-41H","1","","","C-Y-41H-E;SL-16-M;BZ5XN;EPE5XM;M48","0;0;1;1;1","CAM/ID5000XM"]},
-{"Count":26,"value":["相机","ID5000XM系列","ID5050XM系列V2.0","MV-ID5050XM-08L-RBN(国内标配)V2.0","313202293","5MP，8mm镜头，8颗红色LED，半偏镜头罩，液态调焦，带OLED屏","","Power","0","Braket5X","1","","","M12A12","0","M12A8","0","L-8-32","1","C-Y-41H","1","","","C-Y-41H-E;SL-16-M;BZ5XH;EPE5XM;M48","0;0;1;1;1","CAM/ID5000XM"]},
-{"Count":26,"value":["相机","ID5000XM系列","ID5050XM系列V2.0","MV-ID5050XM-08L-RBN(国内中性)V2.0","313202553","5MP，8mm镜头，8颗红色LED，半偏镜头罩，液态调焦，带OLED屏","","Power","0","Braket5X","1","","","M12A12","0","M12A8","0","L-8-32","1","C-Y-41H","1","","","C-Y-41H-E;SL-16-M;BZ5XN;EPE5XM;M48","0;0;1;1;1","CAM/ID5000XM"]},
-{"Count":26,"value":["相机","ID5000XM系列","ID5050XM系列V2.0","MV-ID5050XM-12L-RBN(国内标配)V2.0","313202294","5MP，12mm镜头，8颗红色LED，半偏镜头罩，液态调焦，带OLED屏","","Power","0","Braket5X","1","","","M12A12","0","M12A8","0","L-8-32","1","C-Y-41H","1","","","C-Y-41H-E;SL-16-M;BZ5XH;EPE5XM;M48","0;0;1;1;1","CAM/ID5000XM"]},
-{"Count":26,"value":["相机","ID5000XM系列","ID5050XM系列V2.0","MV-ID5050XM-12L-RBN(国内中性)V2.0","313202557","5MP，12mm镜头，8颗红色LED，半偏镜头罩，液态调焦，带OLED屏","","Power","0","Braket5X","1","","","M12A12","0","M12A8","0","L-8-32","1","C-Y-41H","1","","","C-Y-41H-E;SL-16-M;BZ5XN;EPE5XM;M48","0;0;1;1;1","CAM/ID5000XM"]},
-{"Count":26,"value":["相机","ID5000XM系列","ID5050XM系列V2.0","MV-ID5050XM-16L-RBN(国内标配)V2.0","313202295","5MP，16mm镜头，8颗红色LED，半偏镜头罩，液态调焦，带OLED屏","","Power","0","Braket5X","1","","","M12A12","0","M12A8","0","L-8-32","1","C-Y-41H","1","","","C-Y-41H-E;SL-16-M;BZ5XH;EPE5XM;M48","0;0;1;1;1","CAM/ID5000XM"]},
-{"Count":26,"value":["相机","ID5000XM系列","ID5050XM系列V2.0","MV-ID5050XM-16L-RBN(国内中性)V2.0","313202555","5MP，16mm镜头，8颗红色LED，半偏镜头罩，液态调焦，带OLED屏","","Power","0","Braket5X","1","","","M12A12","0","M12A8","0","L-8-32","1","C-Y-41H","1","","","C-Y-41H-E;SL-16-M;BZ5XN;EPE5XM;M48","0;0;1;1;1","CAM/ID5000XM"]},
+{"Count":26,"value":["相机","ID5000XM系列","ID5050XM系列V2.0","MV-ID5050XM-08M-RBN(国内标配)V2.0","313202289","5MP，8mm镜头，8颗红色LED，半偏镜头罩，机械调焦，带OLED屏","","Power","0","Braket5X","1","","","M12A12","0","M12A8","0","L-8-32","1","C-Y-41","1","","","C-Y-41-E;SL-16-M;BZ5XH;EPE5XM;M48","0;0;1;1;1","CAM/ID5000XM"]},
+{"Count":26,"value":["相机","ID5000XM系列","ID5050XM系列V2.0","MV-ID5050XM-08M-RBN(国内中性)V2.0","313202545","5MP，8mm镜头，8颗红色LED，半偏镜头罩，机械调焦，带OLED屏","","Power","0","Braket5X","1","","","M12A12","0","M12A8","0","L-8-32","1","C-Y-41","1","","","C-Y-41-E;SL-16-M;BZ5XN;EPE5XM;M48","0;0;1;1;1","CAM/ID5000XM"]},
+{"Count":26,"value":["相机","ID5000XM系列","ID5050XM系列V2.0","MV-ID5050XM-12M-RBN(国内标配)V2.0","313202290","5MP，12mm镜头，8颗红色LED，半偏镜头罩，机械调焦，带OLED屏","","Power","0","Braket5X","1","","","M12A12","0","M12A8","0","L-8-32","1","C-Y-41","1","","","C-Y-41-E;SL-16-M;BZ5XH;EPE5XM;M48","0;0;1;1;1","CAM/ID5000XM"]},
+{"Count":26,"value":["相机","ID5000XM系列","ID5050XM系列V2.0","MV-ID5050XM-12M-RBN(国内中性)V2.0","313202547","5MP，12mm镜头，8颗红色LED，半偏镜头罩，机械调焦，带OLED屏","","Power","0","Braket5X","1","","","M12A12","0","M12A8","0","L-8-32","1","C-Y-41","1","","","C-Y-41-E;SL-16-M;BZ5XN;EPE5XM;M48","0;0;1;1;1","CAM/ID5000XM"]},
+{"Count":26,"value":["相机","ID5000XM系列","ID5050XM系列V2.0","MV-ID5050XM-16M-RBN(国内标配)V2.0","313202291","5MP，16mm镜头，8颗红色LED，半偏镜头罩，机械调焦，带OLED屏","","Power","0","Braket5X","1","","","M12A12","0","M12A8","0","L-8-32","1","C-Y-41","1","","","C-Y-41-E;SL-16-M;BZ5XH;EPE5XM;M48","0;0;1;1;1","CAM/ID5000XM"]},
+{"Count":26,"value":["相机","ID5000XM系列","ID5050XM系列V2.0","MV-ID5050XM-16M-RBN(国内中性)V2.0","313202549","5MP，16mm镜头，8颗红色LED，半偏镜头罩，机械调焦，带OLED屏","","Power","0","Braket5X","1","","","M12A12","0","M12A8","0","L-8-32","1","C-Y-41","1","","","C-Y-41-E;SL-16-M;BZ5XN;EPE5XM;M48","0;0;1;1;1","CAM/ID5000XM"]},
+{"Count":26,"value":["相机","ID5000XM系列","ID5050XM系列V2.0","MV-ID5050XM-25M-RBN(国内标配)V2.0","313202292","5MP，25mm镜头，8颗红色LED，半偏镜头罩，机械调焦，带OLED屏","","Power","0","Braket5X","1","","","M12A12","0","M12A8","0","L-8-32","1","C-Y-41","1","","","C-Y-41-E;SL-16-M;BZ5XH;EPE5XM;M48","0;0;1;1;1","CAM/ID5000XM"]},
+{"Count":26,"value":["相机","ID5000XM系列","ID5050XM系列V2.0","MV-ID5050XM-25M-RBN(国内中性)V2.0","313202551","5MP，25mm镜头，8颗红色LED，半偏镜头罩，机械调焦，带OLED屏","","Power","0","Braket5X","1","","","M12A12","0","M12A8","0","L-8-32","1","C-Y-41","1","","","C-Y-41-E;SL-16-M;BZ5XN;EPE5XM;M48","0;0;1;1;1","CAM/ID5000XM"]},
+{"Count":26,"value":["相机","ID5000XM系列","ID5050XM系列V2.0","MV-ID5050XM-08L-RBN(国内标配)V2.0","313202293","5MP，8mm镜头，8颗红色LED，半偏镜头罩，液态调焦，带OLED屏","","Power","0","Braket5X","1","","","M12A12","0","M12A8","0","L-8-32","1","C-Y-41","1","","","C-Y-41-E;SL-16-M;BZ5XH;EPE5XM;M48","0;0;1;1;1","CAM/ID5000XM"]},
+{"Count":26,"value":["相机","ID5000XM系列","ID5050XM系列V2.0","MV-ID5050XM-08L-RBN(国内中性)V2.0","313202553","5MP，8mm镜头，8颗红色LED，半偏镜头罩，液态调焦，带OLED屏","","Power","0","Braket5X","1","","","M12A12","0","M12A8","0","L-8-32","1","C-Y-41","1","","","C-Y-41-E;SL-16-M;BZ5XN;EPE5XM;M48","0;0;1;1;1","CAM/ID5000XM"]},
+{"Count":26,"value":["相机","ID5000XM系列","ID5050XM系列V2.0","MV-ID5050XM-12L-RBN(国内标配)V2.0","313202294","5MP，12mm镜头，8颗红色LED，半偏镜头罩，液态调焦，带OLED屏","","Power","0","Braket5X","1","","","M12A12","0","M12A8","0","L-8-32","1","C-Y-41","1","","","C-Y-41-E;SL-16-M;BZ5XH;EPE5XM;M48","0;0;1;1;1","CAM/ID5000XM"]},
+{"Count":26,"value":["相机","ID5000XM系列","ID5050XM系列V2.0","MV-ID5050XM-12L-RBN(国内中性)V2.0","313202557","5MP，12mm镜头，8颗红色LED，半偏镜头罩，液态调焦，带OLED屏","","Power","0","Braket5X","1","","","M12A12","0","M12A8","0","L-8-32","1","C-Y-41","1","","","C-Y-41-E;SL-16-M;BZ5XN;EPE5XM;M48","0;0;1;1;1","CAM/ID5000XM"]},
+{"Count":26,"value":["相机","ID5000XM系列","ID5050XM系列V2.0","MV-ID5050XM-16L-RBN(国内标配)V2.0","313202295","5MP，16mm镜头，8颗红色LED，半偏镜头罩，液态调焦，带OLED屏","","Power","0","Braket5X","1","","","M12A12","0","M12A8","0","L-8-32","1","C-Y-41","1","","","C-Y-41-E;SL-16-M;BZ5XH;EPE5XM;M48","0;0;1;1;1","CAM/ID5000XM"]},
+{"Count":26,"value":["相机","ID5000XM系列","ID5050XM系列V2.0","MV-ID5050XM-16L-RBN(国内中性)V2.0","313202555","5MP，16mm镜头，8颗红色LED，半偏镜头罩，液态调焦，带OLED屏","","Power","0","Braket5X","1","","","M12A12","0","M12A8","0","L-8-32","1","C-Y-41","1","","","C-Y-41-E;SL-16-M;BZ5XN;EPE5XM;M48","0;0;1;1;1","CAM/ID5000XM"]},
 {"Count":26,"value":["相机","ID5000XM系列","ID5050XM系列V2.0","MV-ID5050XM-00C-NNN(国内标配)","313202673","5MP，全局快门，无镜头，无自带光源","","Power","0","Braket5X","1","","","M12A12","0","M12A8","0","","","","","MF","0","SL-16-C;LY-02;BZ5XH;EPE5XC;M48","0;0;1;1;1","CAM/ID5000XC"]},
 {"Count":26,"value":["相机","ID5000XM系列","ID5050XM系列V2.0","MV-ID5050XM-00C-NNN(国内中性)","313202674","5MP，全局快门，无镜头，无自带光源","","Power","0","Braket5X","1","","","M12A12","0","M12A8","0","","","","","MF","0","SL-16-C;LY-02;BZ5XN;EPE5XC;M48","0;0;1;1;1","CAM/ID5000XC"]},
 {"Count":26,"value":["相机","ID5000XM系列","ID5050XM系列V2.0","MV-ID5050XM-08M-XBN(国内标配)","313202951","多色型号，5MP，8mm镜头，8颗四色光源(红/绿/蓝/白)，全透镜头罩，机械调焦，带OLED屏","","Power","0","Braket5X","1","","","M12A12","0","M12A8","0","","","","","","","BZ5XH;EPE5XD;M48","1;1;1","CAM/ID5050XM-XBN"]},
@@ -494,20 +494,20 @@ var IDBOM_CAMERA_DATA = [
 {"Count":26,"value":["相机","ID5000XM系列","ID5050XM系列V2.0","MV-ID5050XM-25M-BVS(国内中性)","313203304","条码验证器，5MP，25mm镜头，搭配专用光源(红色)，四象限分控照明，照明区分为30°、45°、同轴光","","Power","0","Braket5X","1","","","M12A12","0","M12A8","0","","","","","","","BZ5XT;EPE5XT;M48","1;1;1","CAM/ID5050XM-BVS"]},
 {"Count":26,"value":["相机","ID5000XM系列","ID5120XM系列","MV-ID5120XM-00C-NNN(国内标配)","313202675","12MP，全局快门，无镜头，无自带光源","","Power","0","Braket5X","1","","","M12A12","0","M12A8","0","","","","","KF","0","SL-16-C;LY-02;BZ5XH;EPE5XC;M48","0;0;1;1;1","CAM/ID5000XC"]},
 {"Count":26,"value":["相机","ID5000XM系列","ID5120XM系列","MV-ID5120XM-00C-NNN(国内中性)","313202676","12MP，全局快门，无镜头，无自带光源","","Power","0","Braket5X","1","","","M12A12","0","M12A8","0","","","","","KF","0","SL-16-C;LY-02;BZ5XN;EPE5XC;M48","0;0;1;1;1","CAM/ID5000XC"]},
-{"Count":26,"value":["相机","ID5000XM系列","ID5120RM系列","MV-ID5120RM-08M-RBN(国内标配)","313202900","12MP，8mm镜头，8颗红色LED，半偏镜头罩，机械调焦，带OLED屏","","Power","0","Braket5X","1","","","M12A12","0","M12A8","0","L-8-32","1","C-Y-41H","1","","","C-Y-41H-E;SL-16-M;BZ5XH;EPE5XM;M48","0;0;1;1;1","CAM/ID5000XM"]},
-{"Count":26,"value":["相机","ID5000XM系列","ID5120RM系列","MV-ID5120RM-08M-RBN(国内中性)","313202990","12MP，8mm镜头，8颗红色LED，半偏镜头罩，机械调焦，带OLED屏","","Power","0","Braket5X","1","","","M12A12","0","M12A8","0","L-8-32","1","C-Y-41H","1","","","C-Y-41H-E;SL-16-M;BZ5XN;EPE5XM;M48","0;0;1;1;1","CAM/ID5000XM"]},
-{"Count":26,"value":["相机","ID5000XM系列","ID5120RM系列","MV-ID5120RM-12M-RBN(国内标配)","313202901","12MP，12mm镜头，8颗红色LED，半偏镜头罩，机械调焦，带OLED屏","","Power","0","Braket5X","1","","","M12A12","0","M12A8","0","L-8-32","1","C-Y-41H","1","","","C-Y-41H-E;SL-16-M;BZ5XH;EPE5XM;M48","0;0;1;1;1","CAM/ID5000XM"]},
-{"Count":26,"value":["相机","ID5000XM系列","ID5120RM系列","MV-ID5120RM-12M-RBN(国内中性)","313202996","12MP，12mm镜头，8颗红色LED，半偏镜头罩，机械调焦，带OLED屏","","Power","0","Braket5X","1","","","M12A12","0","M12A8","0","L-8-32","1","C-Y-41H","1","","","C-Y-41H-E;SL-16-M;BZ5XN;EPE5XM;M48","0;0;1;1;1","CAM/ID5000XM"]},
-{"Count":26,"value":["相机","ID5000XM系列","ID5120RM系列","MV-ID5120RM-16M-RBN(国内标配)","313202902","12MP，16mm镜头，8颗红色LED，半偏镜头罩，机械调焦，带OLED屏","","Power","0","Braket5X","1","","","M12A12","0","M12A8","0","L-8-32","1","C-Y-41H","1","","","C-Y-41H-E;SL-16-M;BZ5XH;EPE5XM;M48","0;0;1;1;1","CAM/ID5000XM"]},
-{"Count":26,"value":["相机","ID5000XM系列","ID5120RM系列","MV-ID5120RM-16M-RBN(国内中性)","313203002","12MP，16mm镜头，8颗红色LED，半偏镜头罩，机械调焦，带OLED屏","","Power","0","Braket5X","1","","","M12A12","0","M12A8","0","L-8-32","1","C-Y-41H","1","","","C-Y-41H-E;SL-16-M;BZ5XN;EPE5XM;M48","0;0;1;1;1","CAM/ID5000XM"]},
-{"Count":26,"value":["相机","ID5000XM系列","ID5120RM系列","MV-ID5120RM-25M-RBN(国内标配)","313202903","12MP，25mm镜头，8颗红色LED，半偏镜头罩，机械调焦，带OLED屏","","Power","0","Braket5X","1","","","M12A12","0","M12A8","0","L-8-32","1","C-Y-41H","1","","","C-Y-41H-E;SL-16-M;BZ5XH;EPE5XM;M48","0;0;1;1;1","CAM/ID5000XM"]},
-{"Count":26,"value":["相机","ID5000XM系列","ID5120RM系列","MV-ID5120RM-25M-RBN(国内中性)","313203005","12MP，25mm镜头，8颗红色LED，半偏镜头罩，机械调焦，带OLED屏","","Power","0","Braket5X","1","","","M12A12","0","M12A8","0","L-8-32","1","C-Y-41H","1","","","C-Y-41H-E;SL-16-M;BZ5XN;EPE5XM;M48","0;0;1;1;1","CAM/ID5000XM"]},
-{"Count":26,"value":["相机","ID5000XM系列","ID5120RM系列","MV-ID5120RM-08L-RBN(国内标配)","313202904","12MP，8mm镜头，8颗红色LED，半偏镜头罩，液态调焦，带OLED屏","","Power","0","Braket5X","1","","","M12A12","0","M12A8","0","L-8-32","1","C-Y-41H","1","","","C-Y-41H-E;SL-16-M;BZ5XH;EPE5XM;M48","0;0;1;1;1","CAM/ID5000XM"]},
-{"Count":26,"value":["相机","ID5000XM系列","ID5120RM系列","MV-ID5120RM-08L-RBN(国内中性)","313202954","12MP，8mm镜头，8颗红色LED，半偏镜头罩，液态调焦，带OLED屏","","Power","0","Braket5X","1","","","M12A12","0","M12A8","0","L-8-32","1","C-Y-41H","1","","","C-Y-41H-E;SL-16-M;BZ5XN;EPE5XM;M48","0;0;1;1;1","CAM/ID5000XM"]},
-{"Count":26,"value":["相机","ID5000XM系列","ID5120RM系列","MV-ID5120RM-12L-RBN(国内标配)","313202905","12MP，12mm镜头，8颗红色LED，半偏镜头罩，液态调焦，带OLED屏","","Power","0","Braket5X","1","","","M12A12","0","M12A8","0","L-8-32","1","C-Y-41H","1","","","C-Y-41H-E;SL-16-M;BZ5XH;EPE5XM;M48","0;0;1;1;1","CAM/ID5000XM"]},
-{"Count":26,"value":["相机","ID5000XM系列","ID5120RM系列","MV-ID5120RM-12L-RBN(国内中性)","313202993","12MP，12mm镜头，8颗红色LED，半偏镜头罩，液态调焦，带OLED屏","","Power","0","Braket5X","1","","","M12A12","0","M12A8","0","L-8-32","1","C-Y-41H","1","","","C-Y-41H-E;SL-16-M;BZ5XN;EPE5XM;M48","0;0;1;1;1","CAM/ID5000XM"]},
-{"Count":26,"value":["相机","ID5000XM系列","ID5120RM系列","MV-ID5120RM-16L-RBN(国内标配)","313202906","12MP，16mm镜头，8颗红色LED，半偏镜头罩，液态调焦，带OLED屏","","Power","0","Braket5X","1","","","M12A12","0","M12A8","0","L-8-32","1","C-Y-41H","1","","","C-Y-41H-E;SL-16-M;BZ5XH;EPE5XM;M48","0;0;1;1;1","CAM/ID5000XM"]},
-{"Count":26,"value":["相机","ID5000XM系列","ID5120RM系列","MV-ID5120RM-16L-RBN(国内中性)","313202999","12MP，16mm镜头，8颗红色LED，半偏镜头罩，液态调焦，带OLED屏","","Power","0","Braket5X","1","","","M12A12","0","M12A8","0","L-8-32","1","C-Y-41H","1","","","C-Y-41H-E;SL-16-M;BZ5XN;EPE5XM;M48","0;0;1;1;1","CAM/ID5000XM"]},
+{"Count":26,"value":["相机","ID5000XM系列","ID5120RM系列","MV-ID5120RM-08M-RBN(国内标配)","313202900","12MP，8mm镜头，8颗红色LED，半偏镜头罩，机械调焦，带OLED屏","","Power","0","Braket5X","1","","","M12A12","0","M12A8","0","L-8-32","1","C-Y-41","1","","","C-Y-41-E;SL-16-M;BZ5XH;EPE5XM;M48","0;0;1;1;1","CAM/ID5000XM"]},
+{"Count":26,"value":["相机","ID5000XM系列","ID5120RM系列","MV-ID5120RM-08M-RBN(国内中性)","313202990","12MP，8mm镜头，8颗红色LED，半偏镜头罩，机械调焦，带OLED屏","","Power","0","Braket5X","1","","","M12A12","0","M12A8","0","L-8-32","1","C-Y-41","1","","","C-Y-41-E;SL-16-M;BZ5XN;EPE5XM;M48","0;0;1;1;1","CAM/ID5000XM"]},
+{"Count":26,"value":["相机","ID5000XM系列","ID5120RM系列","MV-ID5120RM-12M-RBN(国内标配)","313202901","12MP，12mm镜头，8颗红色LED，半偏镜头罩，机械调焦，带OLED屏","","Power","0","Braket5X","1","","","M12A12","0","M12A8","0","L-8-32","1","C-Y-41","1","","","C-Y-41-E;SL-16-M;BZ5XH;EPE5XM;M48","0;0;1;1;1","CAM/ID5000XM"]},
+{"Count":26,"value":["相机","ID5000XM系列","ID5120RM系列","MV-ID5120RM-12M-RBN(国内中性)","313202996","12MP，12mm镜头，8颗红色LED，半偏镜头罩，机械调焦，带OLED屏","","Power","0","Braket5X","1","","","M12A12","0","M12A8","0","L-8-32","1","C-Y-41","1","","","C-Y-41-E;SL-16-M;BZ5XN;EPE5XM;M48","0;0;1;1;1","CAM/ID5000XM"]},
+{"Count":26,"value":["相机","ID5000XM系列","ID5120RM系列","MV-ID5120RM-16M-RBN(国内标配)","313202902","12MP，16mm镜头，8颗红色LED，半偏镜头罩，机械调焦，带OLED屏","","Power","0","Braket5X","1","","","M12A12","0","M12A8","0","L-8-32","1","C-Y-41","1","","","C-Y-41-E;SL-16-M;BZ5XH;EPE5XM;M48","0;0;1;1;1","CAM/ID5000XM"]},
+{"Count":26,"value":["相机","ID5000XM系列","ID5120RM系列","MV-ID5120RM-16M-RBN(国内中性)","313203002","12MP，16mm镜头，8颗红色LED，半偏镜头罩，机械调焦，带OLED屏","","Power","0","Braket5X","1","","","M12A12","0","M12A8","0","L-8-32","1","C-Y-41","1","","","C-Y-41-E;SL-16-M;BZ5XN;EPE5XM;M48","0;0;1;1;1","CAM/ID5000XM"]},
+{"Count":26,"value":["相机","ID5000XM系列","ID5120RM系列","MV-ID5120RM-25M-RBN(国内标配)","313202903","12MP，25mm镜头，8颗红色LED，半偏镜头罩，机械调焦，带OLED屏","","Power","0","Braket5X","1","","","M12A12","0","M12A8","0","L-8-32","1","C-Y-41","1","","","C-Y-41-E;SL-16-M;BZ5XH;EPE5XM;M48","0;0;1;1;1","CAM/ID5000XM"]},
+{"Count":26,"value":["相机","ID5000XM系列","ID5120RM系列","MV-ID5120RM-25M-RBN(国内中性)","313203005","12MP，25mm镜头，8颗红色LED，半偏镜头罩，机械调焦，带OLED屏","","Power","0","Braket5X","1","","","M12A12","0","M12A8","0","L-8-32","1","C-Y-41","1","","","C-Y-41-E;SL-16-M;BZ5XN;EPE5XM;M48","0;0;1;1;1","CAM/ID5000XM"]},
+{"Count":26,"value":["相机","ID5000XM系列","ID5120RM系列","MV-ID5120RM-08L-RBN(国内标配)","313202904","12MP，8mm镜头，8颗红色LED，半偏镜头罩，液态调焦，带OLED屏","","Power","0","Braket5X","1","","","M12A12","0","M12A8","0","L-8-32","1","C-Y-41","1","","","C-Y-41-E;SL-16-M;BZ5XH;EPE5XM;M48","0;0;1;1;1","CAM/ID5000XM"]},
+{"Count":26,"value":["相机","ID5000XM系列","ID5120RM系列","MV-ID5120RM-08L-RBN(国内中性)","313202954","12MP，8mm镜头，8颗红色LED，半偏镜头罩，液态调焦，带OLED屏","","Power","0","Braket5X","1","","","M12A12","0","M12A8","0","L-8-32","1","C-Y-41","1","","","C-Y-41-E;SL-16-M;BZ5XN;EPE5XM;M48","0;0;1;1;1","CAM/ID5000XM"]},
+{"Count":26,"value":["相机","ID5000XM系列","ID5120RM系列","MV-ID5120RM-12L-RBN(国内标配)","313202905","12MP，12mm镜头，8颗红色LED，半偏镜头罩，液态调焦，带OLED屏","","Power","0","Braket5X","1","","","M12A12","0","M12A8","0","L-8-32","1","C-Y-41","1","","","C-Y-41-E;SL-16-M;BZ5XH;EPE5XM;M48","0;0;1;1;1","CAM/ID5000XM"]},
+{"Count":26,"value":["相机","ID5000XM系列","ID5120RM系列","MV-ID5120RM-12L-RBN(国内中性)","313202993","12MP，12mm镜头，8颗红色LED，半偏镜头罩，液态调焦，带OLED屏","","Power","0","Braket5X","1","","","M12A12","0","M12A8","0","L-8-32","1","C-Y-41","1","","","C-Y-41-E;SL-16-M;BZ5XN;EPE5XM;M48","0;0;1;1;1","CAM/ID5000XM"]},
+{"Count":26,"value":["相机","ID5000XM系列","ID5120RM系列","MV-ID5120RM-16L-RBN(国内标配)","313202906","12MP，16mm镜头，8颗红色LED，半偏镜头罩，液态调焦，带OLED屏","","Power","0","Braket5X","1","","","M12A12","0","M12A8","0","L-8-32","1","C-Y-41","1","","","C-Y-41-E;SL-16-M;BZ5XH;EPE5XM;M48","0;0;1;1;1","CAM/ID5000XM"]},
+{"Count":26,"value":["相机","ID5000XM系列","ID5120RM系列","MV-ID5120RM-16L-RBN(国内中性)","313202999","12MP，16mm镜头，8颗红色LED，半偏镜头罩，液态调焦，带OLED屏","","Power","0","Braket5X","1","","","M12A12","0","M12A8","0","L-8-32","1","C-Y-41","1","","","C-Y-41-E;SL-16-M;BZ5XN;EPE5XM;M48","0;0;1;1;1","CAM/ID5000XM"]},
 {"Count":26,"value":["相机","ID5000XM系列","ID5120RM系列","MV-ID5120RM-00C-NNN(国内标配)","313202899","12MP，卷帘快门，无镜头，无自带光源","","Power","0","Braket5X","1","","","M12A12","0","M12A8","0","","","","","KF","0","SL-16-C;LY-02;BZ5XH;EPE5XC;M48","0;0;1;1;1","CAM/ID5000XC"]},
 {"Count":26,"value":["相机","ID5000XM系列","ID5120RM系列","MV-ID5120RM-00C-NNN(国内中性)","313203343","12MP，卷帘快门，无镜头，无自带光源","","Power","0","Braket5X","1","","","M12A12","0","M12A8","0","","","","","KF","0","SL-16-C;LY-02;BZ5XN;EPE5XC;M48","0;0;1;1;1","CAM/ID5000XC"]},
 {"Count":26,"value":["相机","行业型号","IVD行业","MV-HY-MED-A13-03N-WBP-S(国内标配)","313203076","1.3MP，2.48mm镜头，视场角69°*58°，4颗白光(偏振)，网口型号","标配1.2m高柔线缆：医疗专用型号供电通讯一体线，DB15转RJ45、DB9，散线（2入2出）","","","","","","","","","","","","","","","","","","","CAM/ID2013ES"]},

diff --git a/scripts/accessory_data.js b/scripts/accessory_data.js
@@ -240,9 +240,9 @@ var IDBOM_ACCESSORY_DATA = [
 {"Count":10,"value":["配件","镜头罩","ID5060M全偏镜头罩","MV-IDA-C-N-78-78-P","310100454","ID5060M全偏镜头罩","若ID5060出货配置为全偏镜头罩，订单中备注：删除：190240954，添加：190219579","C-N-78","0","ACC/C-N-78P"]},
 {"Count":10,"value":["配件","镜头罩","ID5060M扩散镜头罩","MV-IDA-C-N-78-78-K","310102438","ID5060M扩散镜头罩","若ID5060出货配置为扩散镜头罩，订单中备注：删除：190240954，添加：102203992","C-N-78","0","ACC/C-N-78K"]},
 {"Count":10,"value":["配件","镜头罩","ID5060M偏振扩散镜头罩","MV-IDA-C-N-78-78-PK","102205250","ID5060M偏振扩散镜头罩","若ID5060出货配置为偏振扩散镜头罩，订单中备注：删除：190240954，添加：102205250","C-N-78","0","ACC/C-N-78K"]},
-{"Count":10,"value":["配件","镜头罩","ID5000XM半偏镜头罩","MV-IDA-C-Y-41H-56-H","202406694","ID5000XM标配半偏镜头罩","","C-Y-41H","1","ACC/C-Y-41H"]},
-{"Count":10,"value":["配件","镜头罩","ID5000XM全偏镜头罩","MV-IDA-C-Y-41H-56-P(国内中性)","310102293","ID5000XR全偏镜头罩","若ID5000X/R出货配置为全偏，订单中备注：删除：202406694，添加：202406695","C-Y-41H","0","ACC/C-Y-41H"]},
-{"Count":10,"value":["配件","镜头罩","ID5000XM全透镜头罩","MV-IDA-C-Y-41H-56-T(国内中性)","310102294","ID5000XR透明镜头罩","若ID5000X/R出货配置为全透，订单中备注：删除：202406694，添加：202406696","C-Y-41H","0","ACC/C-Y-41H"]},
+{"Count":10,"value":["配件","镜头罩","ID5000XM半偏镜头罩","MV-IDA-C-Y-41-56-H","202406694","ID5000XM标配半偏镜头罩","","C-Y-41","1","ACC/C-Y-41H"]},
+{"Count":10,"value":["配件","镜头罩","ID5000XM全偏镜头罩","MV-IDA-C-Y-41-56-P(国内中性)","310102293","ID5000XR全偏镜头罩","若ID5000X/R出货配置为全偏，订单中备注：删除：202406694，添加：202406695","C-Y-41","0","ACC/C-Y-41P"]},
+{"Count":10,"value":["配件","镜头罩","ID5000XM全透镜头罩","MV-IDA-C-Y-41-56-T(国内中性)","310102294","ID5000XR透明镜头罩","若ID5000X/R出货配置为全透，订单中备注：删除：202406694，添加：202406696","C-Y-41","0","ACC/C-Y-41T"]},
 {"Count":10,"value":["配件","FA镜头","HF系列","MVL-HF0624M-10MP(全球通标配)","310100679","FA镜头，6mm，F2.4，1/1.8英寸，10MP，C接口","","HF06","1","ACC/L-HF"]},
 {"Count":10,"value":["配件","FA镜头","HF系列","MVL-HF0824M-10MP(全球通标配)","310100680","FA镜头，8mm，F2.4，1/1.8英寸，10MP，C接口","","HF08","1","ACC/L-HF"]},
 {"Count":10,"value":["配件","FA镜头","HF系列","MVL-HF1228M-8MP (标配)","102204617","FA玻塑镜头，12mm，F2.8，1/1.8英寸，8MP，C接口","","HF121","1","ACC/L-HF"]},
@@ -285,7 +285,7 @@ var IDBOM_ACCESSORY_DATA = [
 {"Count":10,"value":["配件","扩展配件","YAG防护罩","MV-IDA-C-Y-61-45-YAG(国内中性)V2.0","310103253","激光防护罩，防护1064nm激光漫射","","C-Y-61-Y","0","ACC/C-Y-61-Y"]},
 {"Count":10,"value":["配件","扩展配件","ESD防护罩","MV-IDA-C-Y-61-45-ESD(国内中性)V2.0","310103254","静电防护罩，复合IEC61340-5-1：2016防静电要求","","C-Y-61-E","0","ACC/C-Y-61-E"]},
 {"Count":10,"value":["配件","扩展配件","匀光罩","MV-IDA-C-Y-61-45-DOME(国内中性)V2.0","310103255","匀光罩，适合金属拉丝反光场景","","C-Y-61-D","0","ACC/C-Y-61-D"]},
-{"Count":10,"value":["配件","扩展配件","ESD防护罩","MV-IDA-C-Y-41H-56-ESD(国内中性)","310102292","静电防护罩，复合IEC61340-5-1：2016防静电要求","","C-Y-41H-E","0","ACC/C-Y-41H-E"]},
+{"Count":10,"value":["配件","扩展配件","ESD防护罩","MV-IDA-C-Y-41-56-ESD(国内中性)","310102292","静电防护罩，复合IEC61340-5-1：2016防静电要求","","C-Y-41-E","0","ACC/C-Y-41-E"]},
 {"Count":10,"value":["配件","扩展配件","红色全透爆闪光源","MV-IDA-SL-16-M-RBN(全球通中性)","310103191","适配M口型号，红色16颗补光灯，全透镜头罩，亮度最大可达自带光源的3倍以上","","SL-16-M","0","ACC/SL-16-M"]},
 {"Count":10,"value":["配件","扩展配件","红色全偏爆闪光源","MV-IDA-SL-16-M-RBP(全球通中性)","310102928","适配M口型号，红色16颗补光灯，全偏镜头罩，亮度最大可达自带光源的3倍以上","","SL-16-M","0","ACC/SL-16-M"]},
 {"Count":10,"value":["配件","扩展配件","白色全透爆闪光源","MV-IDA-SL-16-M-WBN(全球通中性)","310103032","适配M口型号，白色16颗补光灯，全透镜头罩，亮度最大可达自带光源的3倍以上","","SL-16-M","0","ACC/SL-16-M"]},
